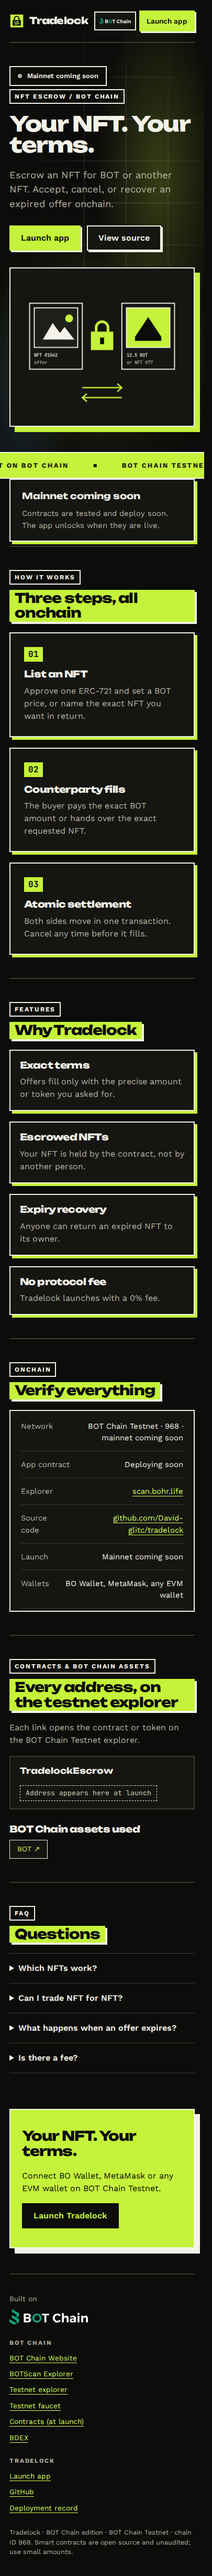
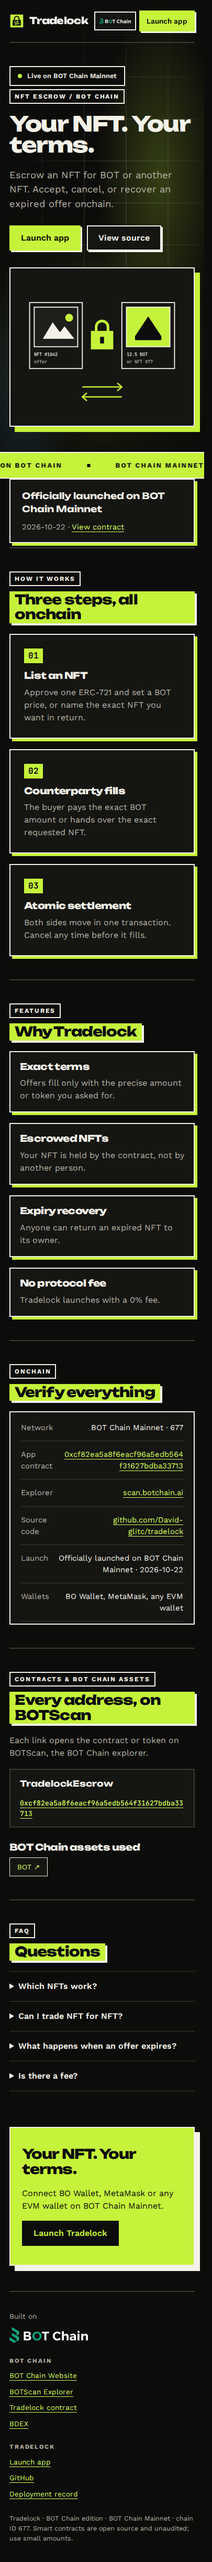
Officially launched on BOT Chain Mainnet

Changed region(s): [[0.0, 0.0, 0.9481, 0.9953], [0.8296, 0.9642, 0.8593, 0.9953]]

diff --git a/README.md b/README.md
@@ -2,7 +2,7 @@
 
 **Your NFT. Your terms.** Escrow an NFT for BOT or another NFT. Accept, cancel, or recover an expired offer onchain.
 
-**Status:** contracts are tested on a BOT Chain mainnet fork; the mainnet deployment is pending.
+**Officially launched on BOT Chain Mainnet** on 2026-10-22.
 
 - Website and app: https://tradelockbot.vercel.app (app at [`/app/`](https://tradelockbot.vercel.app/app/))
 - Network: BOT Chain mainnet, chain ID 677 · [BOT Chain](https://www.botchain.ai/) · [BOTScan](https://scan.botchain.ai/)
@@ -26,9 +26,9 @@
 
 | Contract | BOT Chain mainnet |
 |---|---|
-| `TradelockEscrow` | Pending mainnet deployment |
+| `TradelockEscrow` | [`0xcf82ea5a8f6eacf96a5edb564f31627bdba33713`](https://scan.botchain.ai/address/0xcf82ea5a8f6eacf96a5edb564f31627bdba33713) |
 
-BOT Chain infrastructure used: USDT `0x75edC9335175Fc0552D51D48439F229c10420fe3`, WBOT `0xD5452816194a3784dBa983426cCe7c122F4abd30`, BDEX router `0x07032d47A1b9f8460cBeE9dC17c1d3E438693929`, BDEX QuoterV2 `0x034A705b36067cff99ABf5C662Be881cBd8d0176`.
+BOT Chain infrastructure used: USDT `0xaBabc7Ddc03e501d190C676BF3d92ef0e6e87a3C`, WBOT `0xD5452816194a3784dBa983426cCe7c122F4abd30`, BDEX router `0x07032d47A1b9f8460cBeE9dC17c1d3E438693929`, BDEX QuoterV2 `0x034A705b36067cff99ABf5C662Be881cBd8d0176`.
 
 Source: [`contracts/src`](contracts/src). Tests: [`contracts/test`](contracts/test). The contracts are unaudited; use small amounts.
 
